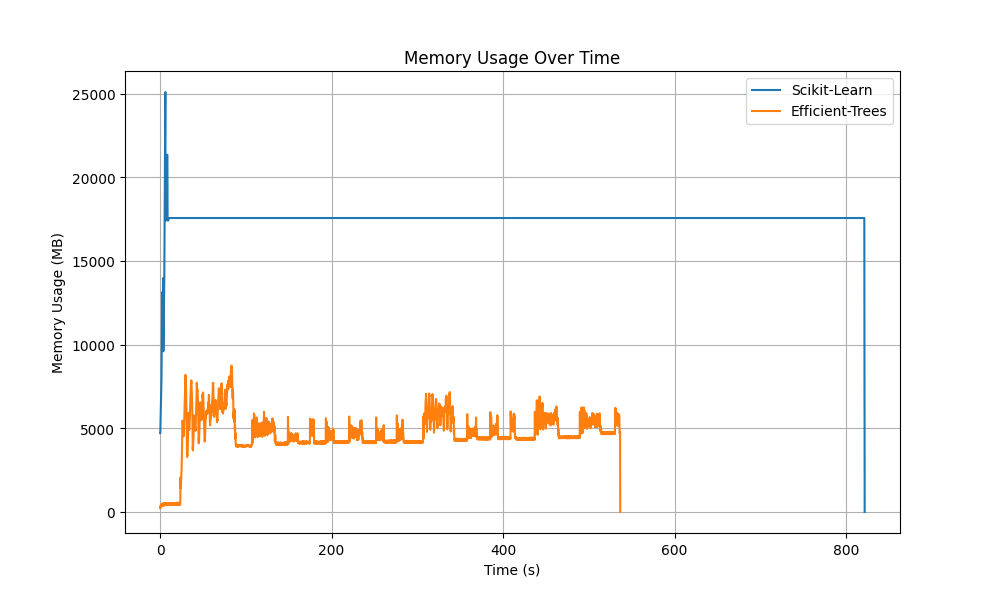
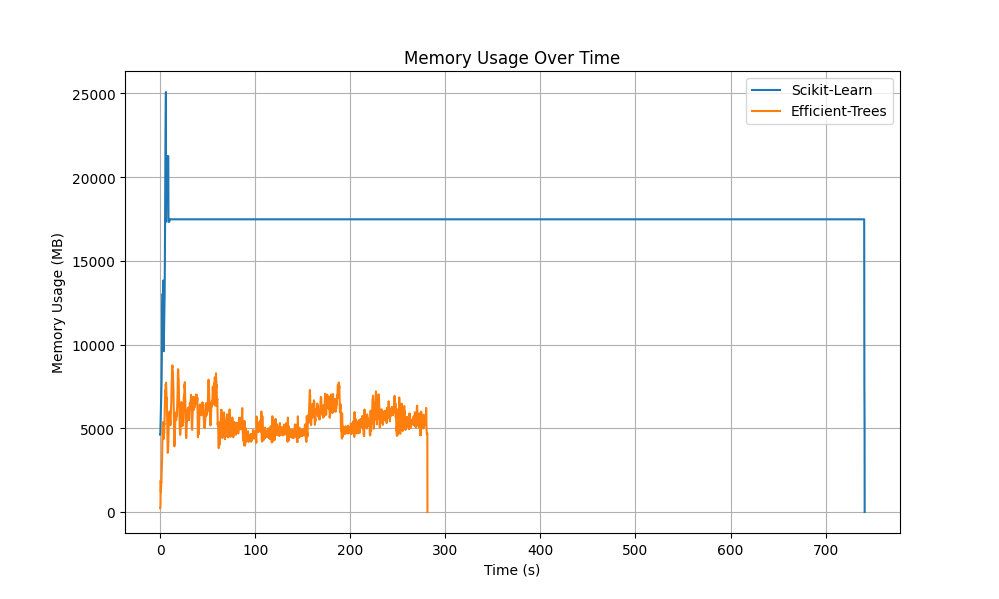
improve runtime, adapt tests, recreate graph

diff --git a/efficient_trees/tree.py b/efficient_trees/tree.py
@@ -62,7 +62,17 @@ class DecisionTreeClassifier:
         columns = data.collect_schema().names()
         feature_names = [col for col in columns if col != target_name]
 
-        self.tree = self._build_tree(data, feature_names, target_name, depth=0)
+        # Prepare data
+        data = data.select(pl.all().shrink_dtype()).with_columns(
+            pl.col(target_name).cast(pl.UInt64).shrink_dtype().alias(target_name)
+        )
+
+        unique_targets = data.select(target_name).unique()
+        if isinstance(unique_targets, pl.LazyFrame):
+            unique_targets = unique_targets.collect(streaming=self.streaming)
+        unique_targets = unique_targets[target_name].to_list()
+
+        self.tree = self._build_tree(data, feature_names, target_name, unique_targets, depth=0)
 
     def predict_many(self, data: Union[pl.DataFrame, pl.LazyFrame]) -> List[Union[int, float]]:
         """
@@ -123,6 +133,7 @@ class DecisionTreeClassifier:
         data: Union[pl.DataFrame, pl.LazyFrame],
         feature_names: list[str],
         target_name: str,
+        unique_targets: list[int],
         depth: int,
     ) -> dict:
         """
@@ -133,6 +144,7 @@ class DecisionTreeClassifier:
         :param data: The dataframe to evaluate.
         :param feature_names: Name of the feature columns.
         :param target_name: Name of the target column.
+        :param unique_targets: unique target values.
         :param depth: The current depth of the tree.
 
         :return: A dictionary representing the node.
@@ -143,22 +155,8 @@ class DecisionTreeClassifier:
         # Evaluate entropy per feature:
         information_gain_dfs = []
         for feature_name in feature_names:
-            feature_data = (
-                data.select([feature_name, target_name])
-                .filter(pl.col(feature_name).is_not_null())
-                .select(
-                    # Not streaming anymore
-                    pl.col(feature_name).shrink_dtype(),
-                    pl.col(target_name).cast(pl.UInt64).shrink_dtype(),
-                )
-            )
-
+            feature_data = data.select([feature_name, target_name]).filter(pl.col(feature_name).is_not_null())
             feature_data = feature_data.rename({feature_name: "feature_value"})
-
-            unique_targets = feature_data.select(target_name).unique()
-            if isinstance(unique_targets, pl.LazyFrame):
-                unique_targets = unique_targets.collect(streaming=self.streaming)
-            unique_targets = unique_targets[target_name]
 
             # No streaming (yet)
             information_gain_df = (
@@ -253,8 +251,10 @@ class DecisionTreeClassifier:
                         -1
                         * pl.sum_horizontal(
                             [
-                                pl.col(f"parent_proportion_class_{target_value}")
-                                * pl.col(f"parent_proportion_class_{target_value}").log(base=2)
+                                (
+                                    pl.col(f"parent_proportion_class_{target_value}")
+                                    * pl.col(f"parent_proportion_class_{target_value}").log(base=2)
+                                ).fill_nan(0.0)
                                 for target_value in unique_targets
                             ]
                         )
@@ -307,8 +307,8 @@ class DecisionTreeClassifier:
             left_df = data.filter(left_mask)
             right_df = data.filter(~left_mask)
 
-            left_subtree = self._build_tree(left_df, feature_names, target_name, depth + 1)
-            right_subtree = self._build_tree(right_df, feature_names, target_name, depth + 1)
+            left_subtree = self._build_tree(left_df, feature_names, target_name, unique_targets, depth + 1)
+            right_subtree = self._build_tree(right_df, feature_names, target_name, unique_targets, depth + 1)
 
             if isinstance(data, pl.LazyFrame):
                 target_distribution = (

diff --git a/tests/integration/test_tree.py b/tests/integration/test_tree.py
@@ -23,160 +23,17 @@ def data():
 
 @pytest.fixture
 def predictions():
+    # fmt: off
     train_predictions = [
-        1,
-        2,
-        2,
-        1,
-        2,
-        1,
-        2,
-        1,
-        0,
-        2,
-        1,
-        0,
-        0,
-        0,
-        1,
-        2,
-        0,
-        0,
-        0,
-        1,
-        0,
-        1,
-        2,
-        0,
-        1,
-        2,
-        0,
-        2,
-        2,
-        1,
-        1,
-        2,
-        1,
-        0,
-        1,
-        2,
-        0,
-        0,
-        1,
-        2,
-        0,
-        2,
-        0,
-        0,
-        2,
-        1,
-        2,
-        2,
-        2,
-        2,
-        1,
-        0,
-        0,
-        2,
-        2,
-        0,
-        0,
-        0,
-        1,
-        2,
-        0,
-        2,
-        2,
-        0,
-        1,
-        1,
-        2,
-        1,
-        2,
-        0,
-        2,
-        1,
-        2,
-        1,
-        1,
-        1,
-        0,
-        1,
-        1,
-        0,
-        1,
-        2,
-        2,
-        0,
-        1,
-        2,
-        2,
-        0,
-        2,
-        0,
-        1,
-        2,
-        2,
-        1,
-        2,
-        1,
-        1,
-        2,
-        2,
-        0,
-        1,
-        2,
-        0,
-        1,
-        2,
+        1, 2, 2, 1, 2, 1, 2, 1, 0, 2, 1, 0, 0, 1, 1, 2, 1, 0, 0, 1, 0, 1, 2, 0, 1, 2, 0, 2, 2, 1, 1, 2, 1, 0, 1, 2, 0,
+        0, 1, 1, 0, 2, 0, 0, 2, 1, 2, 2, 2, 2, 1, 0, 0, 1, 2, 0, 0, 0, 1, 2, 0, 2, 2, 0, 1, 1, 2, 1, 2, 0, 2, 1, 2, 1,
+        1, 1, 0, 1, 1, 0, 1, 2, 2, 0, 1, 2, 2, 0, 2, 0, 1, 2, 2, 1, 2, 1, 1, 2, 2, 0, 1, 2, 0, 1, 2
     ]
     test_predictions = [
-        1,
-        0,
-        2,
-        1,
-        1,
-        0,
-        1,
-        2,
-        1,
-        1,
-        2,
-        0,
-        0,
-        0,
-        0,
-        1,
-        2,
-        1,
-        1,
-        2,
-        0,
-        2,
-        0,
-        2,
-        2,
-        2,
-        2,
-        2,
-        0,
-        0,
-        0,
-        0,
-        0,
-        0,
-        0,
-        2,
-        0,
-        0,
-        0,
-        0,
-        2,
-        0,
-        1,
-        0,
-        0,
+        1, 0, 2, 1, 1, 0, 1, 2, 1, 1, 2, 0, 0, 0, 0, 1, 2, 1, 1, 2, 0, 2, 0, 2, 2, 2, 2, 2, 0, 0, 0, 0, 1, 0, 0, 2,
+        1, 0, 0, 0, 2, 2, 1, 0, 0
     ]
+    # fmt: on
 
     return train_predictions, test_predictions
 
